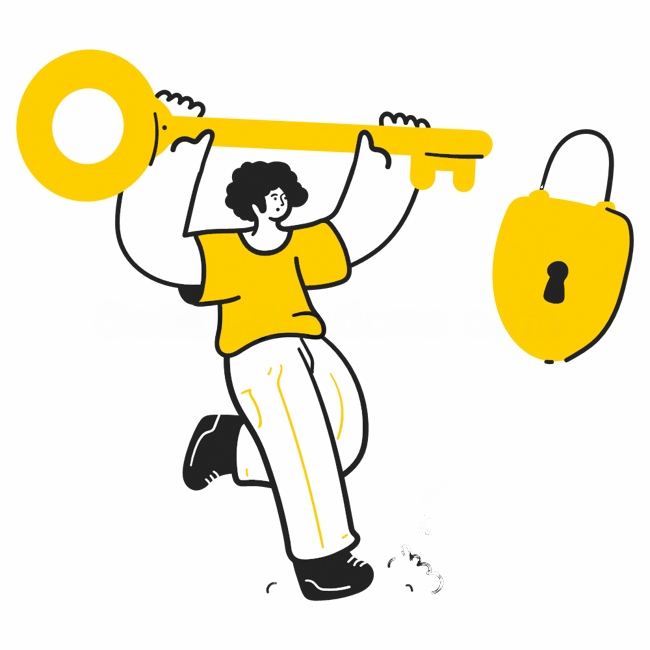
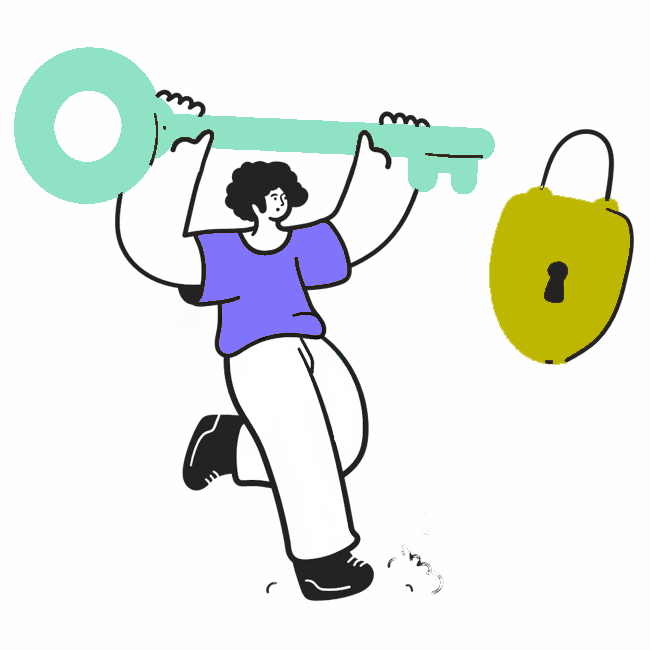
finish auth

diff --git a/src/middleware.ts b/src/middleware.ts
@@ -1,4 +1,3 @@
-import {redirect} from 'next/navigation'
 import {NextRequest, NextResponse} from 'next/server'
 import {getToken} from 'next-auth/jwt'
 import {withAuth} from 'next-auth/middleware'
@@ -16,17 +15,14 @@ async function middleware(request: NextRequest) {
 		path.endsWith('.jpg')
 	)
 	if (!needsAuth) {
-		if (token) return redirect(`/`)
-		NextResponse.next()
-	}
-	console.log('puppo')
+		if (token) return NextResponse.redirect(new URL(`/`, request.url))
+        return null
+    }
 
 	if (needsAuth && !token) {
 		const redirectTo = `${path}${request.nextUrl.search}`
-		redirect(`/auth/login?from=${encodeURIComponent(redirectTo)}`)
-	}
-
-	return NextResponse.next()
+		return NextResponse.redirect(new URL(`/auth/login?from=${encodeURIComponent(redirectTo)}`, request.url))
+    }
 }
 
 async function authorized() {

diff --git a/src/app/globals.css b/src/app/globals.css
@@ -12,7 +12,7 @@ body {
 
 @layer base {
 	:root {
-		--background: 187 22% 93%;
+		/* --background: 187 22% 93%; */
 		--foreground: 0 0% 100%;
 
 		--muted: 210 40% 96.1%;
@@ -27,10 +27,15 @@ body {
 		--border: 214.3 31.8% 91.4%;
 		--input: 214.3 31.8% 91.4%;
 
-		--primary: 49 99% 50%;
-		--primary-foreground: 0 0% 0%;
+		/* --primary: 49 99% 50%; */
+		--primary: 246 96% 72%;
+		/* --primary-foreground: 0 0% 100%; */
+		--primary-foreground: 0 0% 100%;
+		/* --primary-foreground: 0 0 100%; */
+		/* --primary-foreground: 158 59% 73%; */
 
-		--secondary: 185 84% 38%;
+		/* --secondary: 185 84% 38%; */
+		--secondary: 158 59% 73%;
 		--secondary-foreground: 222.2 47.4% 11.2%;
 
 		--accent: 210 40% 96.1%;

diff --git a/src/components/button/button.tsx b/src/components/button/button.tsx
@@ -47,6 +47,7 @@ const Button = React.forwardRef<HTMLButtonElement, ButtonProps>(
 		ref
 	) => {
 		const Comp = asChild ? Slot : 'button'
+		const Icon = icon || null
 		return (
 			<Comp
 				className={cn(buttonVariants({variant, size, className}))}

diff --git a/next.config.js b/next.config.js
@@ -1,7 +1,4 @@
 /** @type {import('next').NextConfig} */
 module.exports = {
 	reactStrictMode: true,
-	images: {
-		unoptimized: true
-	}
 }
